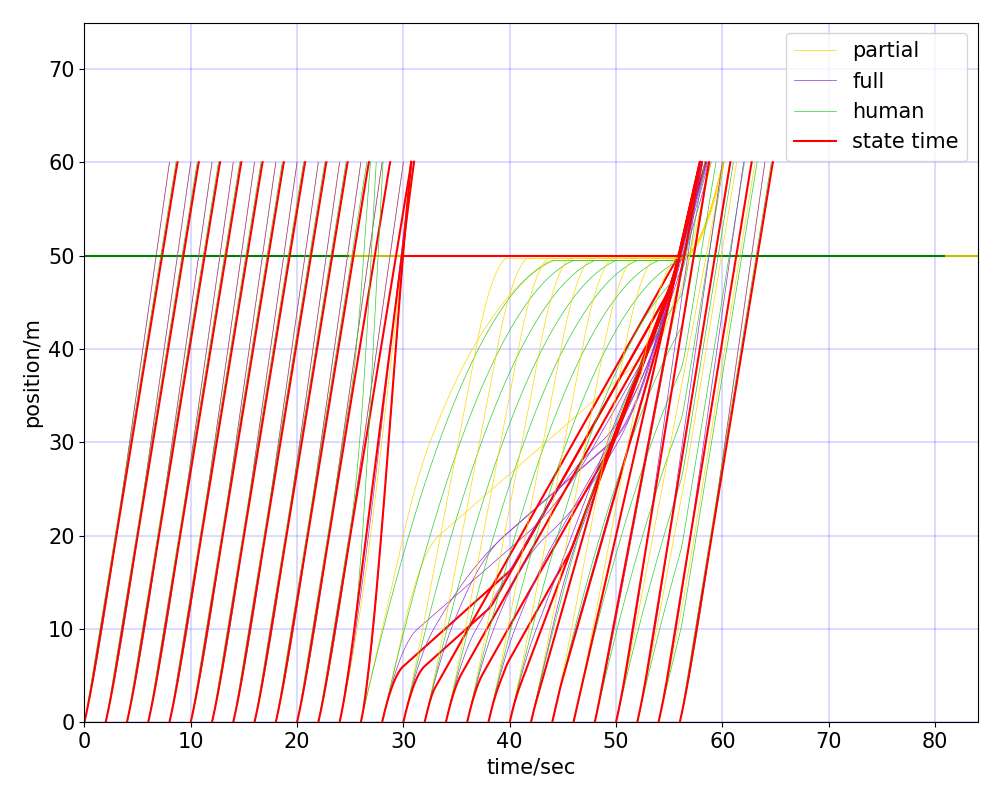
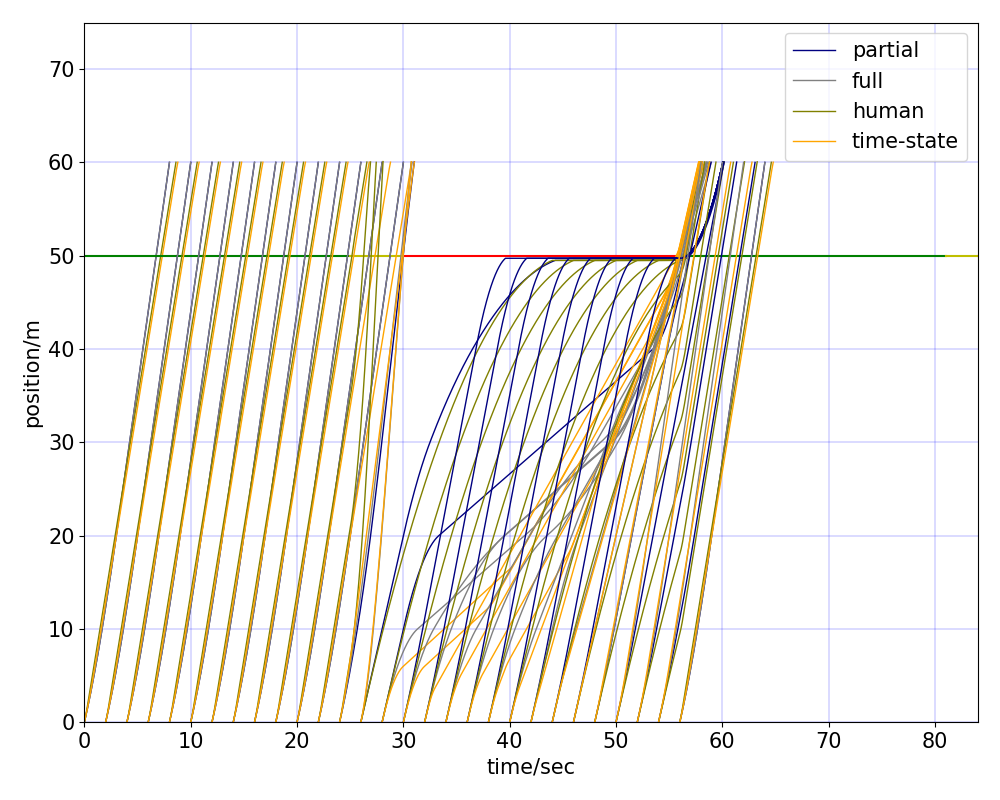
revisions

diff --git a/stochastic/plot_behavior_combine.py b/stochastic/plot_behavior_combine.py
@@ -12,9 +12,9 @@ import pandas as pd
 import copy
 import os
 
-def newline(p1, p2, color):
+def newline(p1, p2, color, ax):
     # draw a line from p1=[x,y] to p2
-    ax = plt.gca()
+    # ax = plt.gca()
     ymin, ymax = p1[1], p2[1]
     xmin, xmax = p1[0], p2[0]
 
@@ -91,23 +91,26 @@ a_min, a_max = -5, 8
 t0_set = np.linspace(0, sum(timeset), sum(timeset)//2 + 1)
 destination_loc = (m + 1) * delta_x + x_init
 vel_collection = [5, 10, 15, 20]
-# vel_collection = [20]
+vel_collection = [15]
 dt = 0.01
 v_star = 7
 # vel_collection = [5]
 # t0_set = [24]
 colorlist = ['y', 'g', 'b', 'olive']
 
+det_time_list, opt_time_list = [], []
+
 for init_vel in vel_collection:
 
     result = pd.DataFrame(columns=["v0", "t0", "det", "sto", "dum"])
     plt.rcParams.update({'font.size': 15})
-    plt.figure(figsize=(10, 8))
+    # plt.figure(figsize=(10, 8))
 
-
+    fig, axs = plt.subplots(1, 2, figsize=(16, 5))
+    
     for t0_ in t0_set:
-    # for lll in range(4):
-        # t0_ = t0_set[[15, 16, 17, 18][lll]]
+    # for lll in range(1):
+    #     t0_ = t0_set[[0, 2][lll]]
         print("t0 = ", t0_)
         light = traffic_light(t0_, timeset, light_location)
         init_light = light.give_clock(0)
@@ -266,7 +269,9 @@ for init_vel in vel_collection:
         x_det = copy.deepcopy(x0)
         cost_det = 0
         det_opt = dfs_optimizer(light, car)
+        det_start = time.time()
         plan_det, cost, vel = det_opt.solver(x_det[0], x_det[1], dv)
+        det_delta_t = time.time() - det_start
         # print(plan_det, vel)
         if np.isclose(vel[-2], 0):
             vel[-3] -= 0.2
@@ -345,8 +350,10 @@ for init_vel in vel_collection:
 
         # D. state_time control
         obj = state_space(light, car)
+        opt_start = time.time()
         st_plan = obj.solver(0.0, init_vel)
-        print("planned fuel cost:", st_plan["cost"])
+        opt_delta_t = time.time() - opt_start
+        # print("planned fuel cost:", st_plan["cost"])
         time_prof_opt = []
         traj_opt = []
         cost_opt = []
@@ -364,39 +371,74 @@ for init_vel in vel_collection:
             
 
             time_prof_opt.append(t)
-        print("accumulated fuel cost:", cost_opt)
+        # print("accumulated fuel cost:", cost_opt)
 
+        det_time_list.append(det_delta_t)
+        opt_time_list.append(opt_delta_t)
         time_prof_sto += t0_
         time_prof_det += t0_
         time_prof_dum += t0_
         time_prof_opt += t0_
-        plt.plot(time_prof_sto, traj_sto, 'gold', label='partial',linewidth=1.0)
-        plt.plot(time_prof_det, traj_det, 'darkorchid', label='full',linewidth=1.0)
-        plt.plot(time_prof_dum, traj_dum, 'limegreen', label='human',linewidth=1.0)
-        plt.plot(time_prof_opt, traj_opt, 'orange', label='state time',linewidth=1.0)
+
+        axs[1].plot(time_prof_sto, traj_sto, 'navy')
+        # axs[0, 1].set_title('Partial trajectory')
+        axs[ 0].plot(time_prof_det, traj_det, 'grey')
+        # axs[0, 0].set_title('Full trajectory')
+        axs[1].plot(time_prof_dum, traj_dum, 'olive')
+        # axs[0, 1].set_title('Human model trajectory')
+        axs[0].plot(time_prof_opt, traj_opt, 'orange')
+        # axs[0, 0].set_title('Time-state trajectory')
+
+        for ax in axs.flat:
+            ax.set(xlabel='time/sec', ylabel='position/m')
+            ax.set_xlim(0, light.location * 1.2)
+            ax.set_xticks(np.arange(0, light.location * 1.3, 4))
+            ax.set_yticks(np.arange(0, 70, 10))
+            ax.grid(color='b', linestyle='-', linewidth=.05)
+            ax.tick_params(axis='x', labelsize= 12)
+            ax.tick_params(axis='y', labelsize= 12)
+        # Hide x labels and tick labels for top plots and y ticks for right plots.
+        for ax in axs.flat:
+            ax.label_outer()
+
+        # plt.plot(time_prof_sto, traj_sto, 'navy', label='partial',linewidth=1.0)
+        # plt.plot(time_prof_det, traj_det, 'grey', label='full',linewidth=1.0)
+        # plt.plot(time_prof_dum, traj_dum, 'olive', label='human',linewidth=1.0)
+        # plt.plot(time_prof_opt, traj_opt, 'orange', label='time-state',linewidth=1.0)
         
         # plt.plot(time_real, vel, 'b')
         if np.isclose(t0_, 0):
             red, green, yellow = light.trafficline(final_time)
             red_num, green_num, yel_num = len(red), len(green), len(yellow)
-            for j in range(int(red_num/2)):
-                newline(red[2*j], red[2*j + 1], 'r')
-            for j in range(int(green_num/2)):
-                newline(green[2*j], green[2*j + 1], 'g')
-            for j in range(int(yel_num/2)):
-                newline(yellow[2*j], yellow[2*j + 1], 'y')
 
-    plt.xlabel('time/sec')
-    plt.ylabel('position/m')
-    plt.xlim([0, 1.5 * light.T])
-    plt.ylim([0, light_location * 1.5])
-    plt.legend(["partial", "full", "human", "state time"])
+            for ax in axs.flat:
+            
+                for j in range(int(red_num/2)):
+                    newline(red[2*j], red[2*j + 1], 'r', ax)
+                for j in range(int(green_num/2)):
+                    newline(green[2*j], green[2*j + 1], 'g', ax)
+                for j in range(int(yel_num/2)):
+                    newline(yellow[2*j], yellow[2*j + 1], 'y', ax)
+
+    print(det_delta_t)
+    print(opt_delta_t)
+    # plt.xlabel('time/sec')
+    # plt.ylabel('position/m')
+    # plt.xlim([0, 1.5 * light.T])
+    # plt.ylim([0, light_location * 1.5])
+    # plt.legend(["partial", "full", "human", "time-state"])
+    # plt.tight_layout()
+    
+    # plt.grid(color='b', linestyle='-', linewidth=.2)
+    axs[0].legend(["full", "time-state"], bbox_to_anchor=(0.8,0.88), fontsize=8)
+    axs[1].legend(["partial", "human model"], bbox_to_anchor=(0.8,0.88), fontsize=8)
+
     plt.tight_layout()
-    # plt.title('Behavior set, v0 = '+str(init_vel))
-    plt.grid(color='b', linestyle='-', linewidth=.2)
     foldername = 'v0='+ str(x0[1])
+
     pic_name = 'vel_profile_v0='+ str(init_vel)+'_v_star=' +str(v_star)+ '_revision.png'
     plt.savefig(os.path.join(os.getcwd(), 'pics', trafficFolderName, foldername, pic_name))
+
     plt.close()
 
 

diff --git a/stochastic/revision_processing.py b/stochastic/revision_processing.py
@@ -7,9 +7,14 @@ timeset = [26, 5, 25]                      # a, red, yellow, green
 timeset = [15, 3, 20]                      # b, red, yellow, green
 trafficFolderName = str(timeset[0]) + '_' + str(timeset[1]) + '_' + str(timeset[2])
 vel_collection = [5, 10, 15, 20]
+density = 0.7489
 
 for init_vel in vel_collection:
     x0 = [0, init_vel]
+    # filename = str(0) + '-' + str(x0[1]) + '-' + str(timeset[0])+'-'+str(timeset[1])+'-'+str(timeset[2])+'_monte_carlo.json'
+    # with open(os.path.join(os.getcwd(), 'data', filename)) as json_file:
+    #     cost_table = json.load(json_file)
+
     filename = str(0) + '-' + str(x0[1]) + '-' + str(timeset[0])+'-'+str(timeset[1])+'-'+str(timeset[2])+'_monte_carlo.json'
     with open(os.path.join(os.getcwd(), 'data', filename)) as json_file:
         cost_table_1 = json.load(json_file)
@@ -28,27 +33,30 @@ for init_vel in vel_collection:
     sum_sto, sum_det, sum_dum, sum_opt = 0, 0, 0, 0
     count = 0
     for i in range(len(cost_table["sto"])):
-        sum_sto += cost_table["sto"][i] 
-        sum_dum += cost_table["dum"][i] 
-        sum_det += cost_table["det"][i] 
+        sum_sto += cost_table["sto"][i] * density
+        sum_dum += cost_table["dum"][i] * density
+        sum_det += cost_table["det"][i] * density
         if cost_table["opt"][i] > 0:
-            sum_opt += cost_table["opt"][i]
+            sum_opt += cost_table["opt"][i]* density
             count += 1
         
         ave_sto.append(sum_sto / (i + 1))
         ave_det.append(sum_det / (i + 1))
         ave_dum.append(sum_dum / (i + 1))
         ave_opt.append(sum_opt / count)
-    print("v = %s, sto: %s, det: %s, dum: %s, opt: %s" % (init_vel, ave_sto[-1], ave_det[-1], ave_dum[-1], ave_opt[-1]))
-    plt.plot(ave_det)
+    plt.figure(figsize=(15,5))
+    plt.tight_layout()
+    print("v = %s, sto: %s, det: %s, dum: %s, opt: %s" % (init_vel, round(ave_sto[-1], 3), round(ave_det[-1], 3), round(ave_dum[-1], 3), round(ave_opt[-1], 3)))
+    plt.plot(ave_det )
     plt.plot(ave_sto)
     plt.plot(ave_dum)
     plt.plot(ave_opt)
-    plt.legend(["det", "sto", "smart", "state space"])
+    
+    plt.legend(["full", "partial", "human", "time-state"])
     plt.xlabel("trail times")
-    plt.ylabel("Average fuel comsumption/ 1e-3 Liter")
-    plt.title("Monte Carlo compare of v = %s in %d times" % (init_vel, len(cost_table["sto"])))
+    plt.ylabel("Average fuel comsumption/g")
+    # plt.title("Monte Carlo compare of v0 = %s in %d trials" % (init_vel, len(cost_table["sto"])))
     foldername = 'v0='+ str(x0[1])
     pic_name = 'revision_v0='+ str(init_vel)+ '_Monte_Carlo.png'
-    plt.savefig(os.path.join(os.getcwd(), 'pics', 'Monte_Carlo', trafficFolderName, foldername, pic_name))
+    plt.savefig(os.path.join(os.getcwd(), 'pics', 'Monte_Carlo', trafficFolderName, foldername, pic_name), bbox_inches='tight')
     plt.close()

diff --git a/stochastic/processing.py b/stochastic/processing.py
@@ -29,7 +29,7 @@ for init_vel in vel_collection:
     plt.legend(["det", "sto", "smart"])
     plt.xlabel("trail times")
     plt.ylabel("Average fuel comsumption/ 1e-3 Liter")
-    plt.title("Monte Carlo compare of v = %s in %d times" % (init_vel, len(cost_table)))
+    # plt.title("Monte Carlo compare of v = %s in %d times" % (init_vel, len(cost_table)))
     foldername = 'v0='+ str(x0[1])
     pic_name = 'v0='+ str(init_vel)+ '_Monte_Carlo.png'
     plt.savefig(os.path.join(os.getcwd(), 'pics', 'Monte_Carlo', trafficFolderName, foldername, pic_name))
